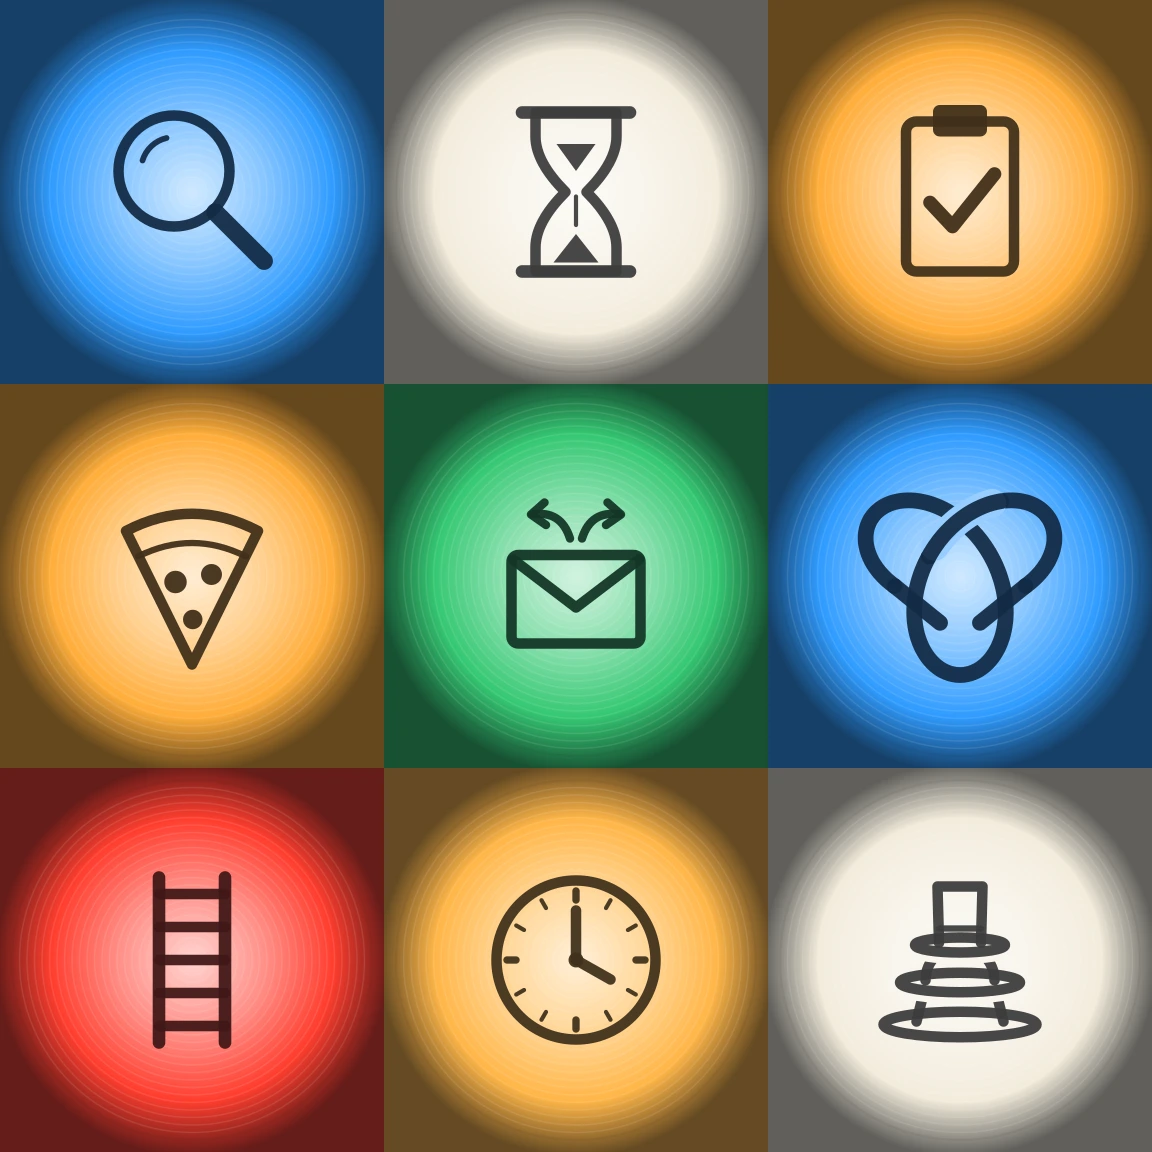
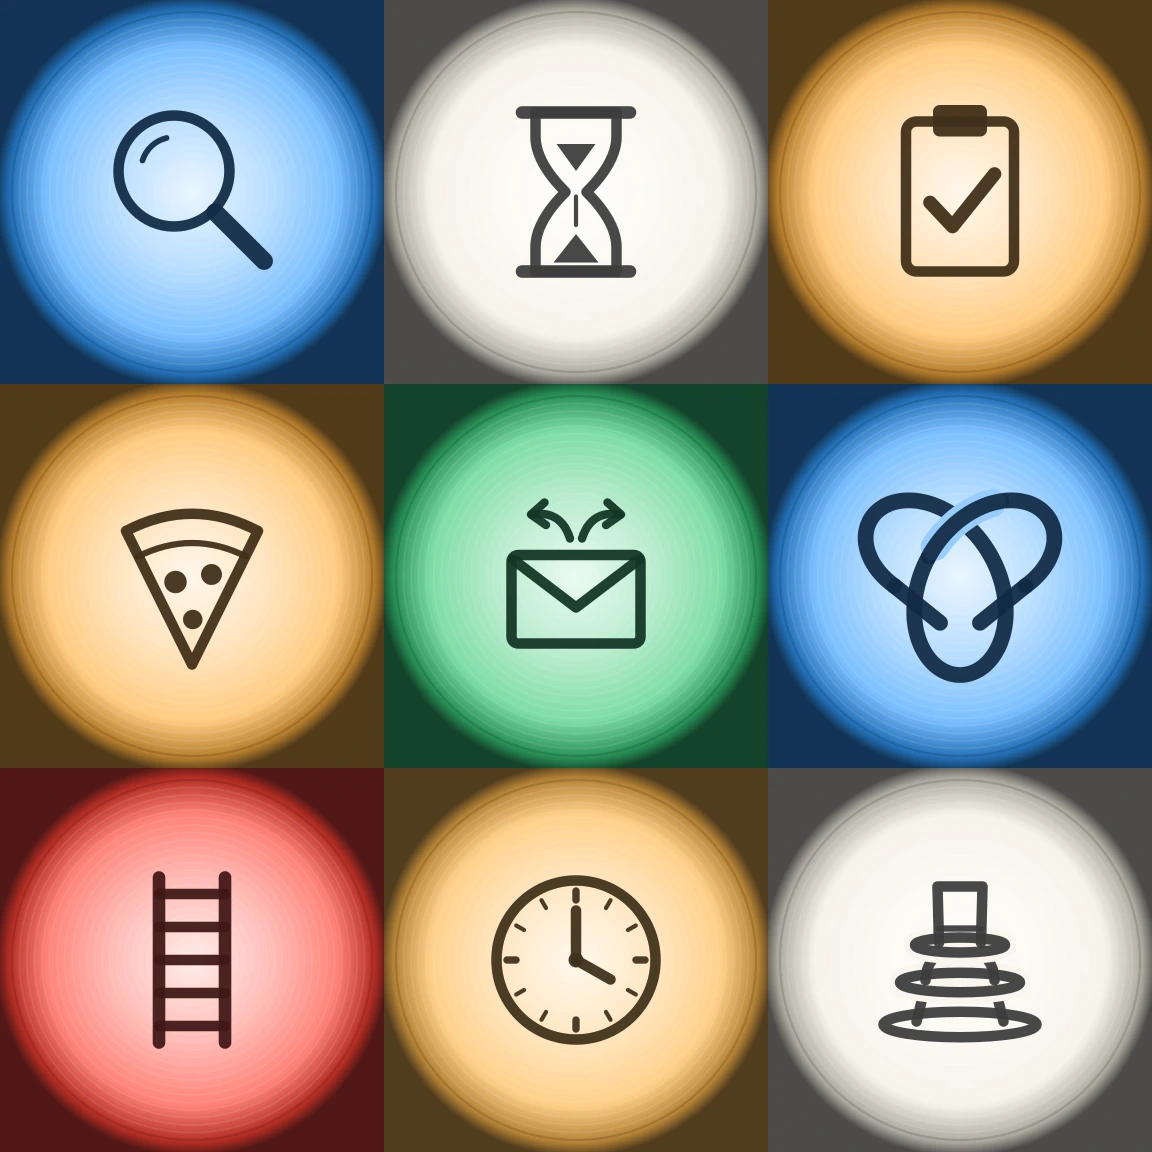
Pools on the lacquer, slings lit from under, paler lit windows, dark deck outside the pit
The floor's clear coat spreads each near lamp into a soft pool in the lamp's colour. A sling's lamp lights the floor round its foot more than the top of its plastic. A lit window is pale in the middle and its own colour at the rim. The top of the frame's deck outside a pit takes no lamp light.

diff --git a/src/table/real/lights/hook.ts b/src/table/real/lights/hook.ts
@@ -23,6 +23,9 @@ uniform float wjlEnv;
 // The deck of the frame outside a tier's pit stands at the page's surface, over every lamp of the tier: no lamp reaches its top.
 const EDGE = (COLS.launchB - W / 2) * BALL
 
+// A lacquered floor is never a clean mirror: the fine scratches of play spread each lamp near it into a soft pool in the lamp's own colour, whatever the colour of the print under the lacquer.
+const HAZE = 0.05
+
 // For each group: its picture at the fragment's place, a term for the fragment's height and for the way its surface faces the lamps, the group's colour and level.
 const body = /* glsl */ `
 {
@@ -56,12 +59,13 @@ const body = /* glsl */ `
 	float wjlWall = 1.0 - smoothstep( 0.3, 0.9, wjlN.z );
 	float wjlTop = 1.0 - wjlWall;
 	float wjlRim = wjlFrame.z < - 1.0 ? - wjlFrame.z : 1.0e6;
-	float wjlPit = 1.0 - wjlTop * smoothstep( wjlRim - 24.0, wjlRim - 4.0, wjlUp ) * smoothstep( ${(EDGE - 14).toFixed(1)}, ${(EDGE + 14).toFixed(1)}, abs( wjlP.x ) );
+	float wjlPit = 1.0 - wjlTop * smoothstep( wjlRim - 24.0, wjlRim - 4.0, wjlUp ) * smoothstep( ${EDGE.toFixed(1)}, ${(EDGE + 36).toFixed(1)}, abs( wjlP.x ) );
 	wjlInside *= wjlPit;
 	float wjlShine = 1.0 - smoothstep( 0.9, 0.995, wjlN.z ) * ( 1.0 - smoothstep( 4.0, 16.0, wjlUp ) );
 	IncidentLight wjlLight;
 	wjlLight.visible = true;
 	vec3 wjlField = vec3( 0.0 );
+	vec3 wjlHaze = vec3( 0.0 );
 	for ( int i = 0; i < ${CHANNELS}; i ++ ) {
 		vec3 c = wjlCol[ i ];
 		if ( c.r + c.g + c.b <= 0.0 ) continue;
@@ -73,6 +77,7 @@ const body = /* glsl */ `
 		float amount = wjlPhi[ i ] * wjlInside * wjlClear;
 		if ( at.w < 0.5 ) {
 			wjlField += c * amount * ( 0.34 + 0.66 * max( wjlN.z, 0.0 ) ) / ( 1.0 + wjlUp * wjlUp * at.z );
+			wjlHaze += c * amount * smoothstep( 0.5, 2.4, amount );
 			continue;
 		}
 		vec3 from = at.xyz;
@@ -80,6 +85,7 @@ const body = /* glsl */ `
 			from = vec3( wjlP.xy + wjlToward * at.z * wjlRun, at.z + wjlUp * wjlTop );
 			amount *= wjlCut / ( 1.0 + wjlTop * wjlUp * wjlUp * ${(1 / (170 * 170)).toExponential(4)} );
 			amount = mix( amount, 0.6 * amount / ( 1.0 + 1.5 * amount ), max( wjlWall, smoothstep( 40.0, 100.0, wjlUp ) ) );
+			wjlHaze += c * amount * smoothstep( 0.5, 2.4, amount );
 		}
 		vec3 low = vec3( from.xy - wjlP.xy, at.z );
 		vec3 to = from - wjlP;
@@ -98,8 +104,11 @@ const body = /* glsl */ `
 			#endif
 		}
 	}
-	wjlField += wjlFill * ( 0.5 + 0.5 * wjlN.z ) * ( 1.0 + 1.6 * wjlTop * smoothstep( 20.0, 130.0, wjlUp ) ) * ( 0.25 + 0.75 * wjlPit );
+	wjlField += wjlFill * ( 0.5 + 0.5 * wjlN.z ) * ( 1.0 + 1.6 * wjlTop * smoothstep( 20.0, 130.0, wjlUp ) ) * wjlPit;
 	reflectedLight.directDiffuse += wjlField * material.diffuseColor;
+	#ifdef USE_CLEARCOAT
+	clearcoatSpecularDirect += wjlHaze * ${HAZE.toFixed(3)} * ( 1.0 - wjlShine ) / ( 1.0 + 0.25 * ( wjlHaze.r + wjlHaze.g + wjlHaze.b ) );
+	#endif
 	#ifdef STANDARD
 	reflectedLight.directSpecular += wjlField * material.specularColor * 0.12;
 	#endif

diff --git a/src/table/real/lights/pictures.ts b/src/table/real/lights/pictures.ts
@@ -17,6 +17,7 @@ export const TEXEL = 6
 // The body of every lamp, as the renderer's true lights have it, so a lamp may change from a picture to a true light and back unseen.
 export const BODY = 20
 export const LEAN = CHANNELS - 1
+const SLING_TOP = 0.22
 
 interface Blocker { kind: 0 | 1 | 2; id: string; a: number; b: number; c: number; d: number; h: number }
 
@@ -150,6 +151,22 @@ function addSource(z: Zone, s: Source, plane: Float32Array, dir: Float32Array[] 
     return Math.hypot(cx - s.x, cy - s.y) < s.reach + r
   })
   const soft = Math.min(14, s.z * 0.5 + 4)
+  // A sling's lamp stands under its plastic: the top of the plastic takes a little of it, the floor round its foot the most.
+  const own = s.on !== undefined && s.on.startsWith('sling.') ? table.slings.find((q) => `sling.${q.id}` === s.on) : undefined
+  const tri = own ? [own.a, own.b, own.c].map((q) => localBalls(z, q[0], q[1])) : null
+  const under = (x: number, y: number): boolean => {
+    if (!tri) return false
+    let pos = 0
+    let neg = 0
+    for (let n = 0; n < 3; n++) {
+      const a = tri[n]!
+      const b = tri[(n + 1) % 3]!
+      const c = (b[0] - a[0]) * (y - a[1]) - (b[1] - a[1]) * (x - a[0])
+      if (c > 0) pos++
+      else neg++
+    }
+    return pos === 0 || neg === 0
+  }
   for (let j = y0; j <= y1; j++) {
     const y = (j + 0.5) * TEXEL - z.height / 2
     for (let i = x0; i <= x1; i++) {
@@ -157,7 +174,7 @@ function addSource(z: Zone, s: Source, plane: Float32Array, dir: Float32Array[] 
       const dx = s.x - x
       const dy = s.y - y
       const flat = dx * dx + dy * dy
-      const f = fall(flat + s.z * s.z, s.reach) * s.power
+      const f = fall(flat + s.z * s.z, s.reach) * s.power * (under(x, y) ? SLING_TOP : 1)
       if (f <= 0) continue
       const len = Math.sqrt(flat) || 1
       const nx = (-dy / len) * soft

diff --git a/src/table/real/art/inserts.ts b/src/table/real/art/inserts.ts
@@ -21,7 +21,7 @@ export const insertColour = (n: Insert): THREE.Color => {
 }
 
 // How bright a window is: unlit it only catches the room, lit it glows from below, brightest in the middle.
-export const INSERT_GLOW = { off: 0.05, on: 2.6 }
+export const INSERT_GLOW = { off: 0.05, on: 1.9 }
 
 // The cell of the three by three atlases a window's picture lies in: its index in `table.inserts`.
 export const insertCell = (n: Insert): [number, number] => [n.index % 3, Math.floor(n.index / 3)]
